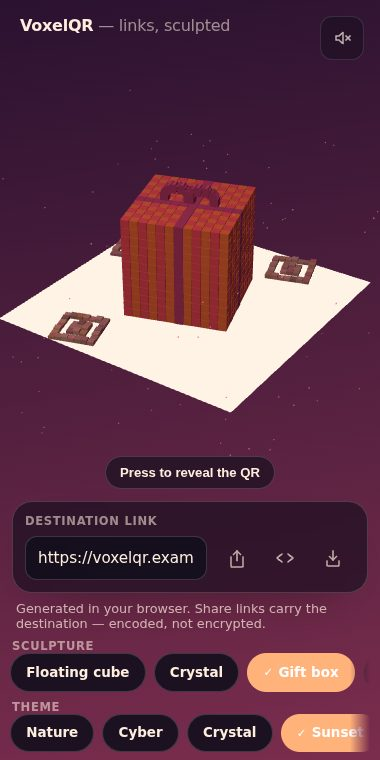
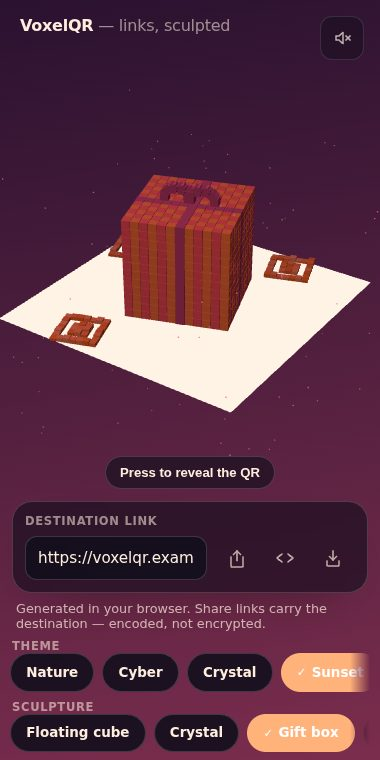
Fix washed-out finder squares, pair the pickers, and measure scan headroom
Three things, one of which turned into a real reliability finding.

Finder squares. They were mixed toward the background by a per-cube
amount, which desaturated them to pale grey and left them mottled rather
than carved. Each cube now takes the theme's own voxel colour and varies
only its lightness, so the three squares read as one material belonging
to the sculpture.

Footer. Theme sits left and sculpture right on one row at desktop
widths; they stack on a phone, where side-by-side leaves no room to read
a chip before it scrolls away.

Scanning headroom. "It decodes" says nothing about how much room a code
has before it stops working, so tests/e2e/degrade.ts shrinks a capture
and re-decodes it — standing in for scanning from further away. The
measurement changed the design: error correction was pinned at H per the
spec, but H protects a code that is obscured, and nothing obscures this
one. It was spending 30% more modules on redundancy the design does not
need.

  29 chars   33 modules (H)  decoded down to 10%   unchanged
  72 chars   49 -> 41 (Q)
  173 chars  69 -> 53 (M)    decoded ONLY at 100%  now 15%

chooseErrorCorrectionLevel takes the strongest level whose code still
fits a module budget, never below M. Short links keep H and lose
nothing; the long link gained roughly 6.7x more scanning distance.
tests/e2e/scan-margin.spec.ts locks it in — pin the level back to H and
it fails.

137 unit tests and 44 Playwright tests green. README screenshots
[…]

diff --git a/src/voxel/instanced-voxels.tsx b/src/voxel/instanced-voxels.tsx
@@ -4,7 +4,6 @@ import { useFrame } from '@react-three/fiber';
 import * as THREE from 'three';
 import type { RevealValues } from '../animation/create-reveal-timeline';
 import { LOCK_HEIGHT, TILE_HEIGHT } from './build-qr-layout';
-import { toSubtle } from '../themes/module-colors';
 import { hashString } from './rng';
 import type { VoxelLayout } from './types';
 
@@ -134,16 +133,29 @@ export function InstancedVoxels({
   const tileColors = useMemo(() => {
     const idle: Array<THREE.Color | null> = [];
     const scan: Array<THREE.Color | null> = [];
+    const hsl = { h: 0, s: 0, l: 0 };
     for (const instance of layout.instances) {
       if (instance.isQrModule && instance.module) {
         const [row, column] = instance.module;
         const mosaic = moduleColor(row, column);
-        // Finder squares rest as tone-on-tone decoration; data tiles rest as
-        // pure background — invisible until the reveal surfaces them.
+        // Finder squares rest as objects made of the sculpture's own material;
+        // data tiles rest as pure background, invisible until the reveal.
         if (finder(row, column)) {
-          // Each finder cube gets its own tone, like stacked stone.
+          /**
+           * One hue, lit slightly differently cube to cube.
+           *
+           * Mixing toward the background — the earlier approach — desaturated
+           * these into pale grey and, because the mix amount varied per cube,
+           * left them looking mottled rather than carved. Taking the theme's
+           * own voxel colour and moving only its lightness keeps the three
+           * squares unmistakably one material.
+           */
+          const base = paletteColors[0] ?? foregroundColor;
           const jitter = (hashString(`finder:${row}:${column}`) % 1000) / 1000;
-          idle.push(new THREE.Color(toSubtle(mosaic, qrBackground, 0.48 + jitter * 0.3)));
+          const stone = new THREE.Color().copy(base);
+          stone.getHSL(hsl);
+          stone.setHSL(hsl.h, hsl.s, Math.min(0.92, Math.max(0.05, hsl.l + (jitter - 0.5) * 0.14)));
+          idle.push(stone);
         } else {
           idle.push(new THREE.Color(qrBackground));
         }
@@ -154,7 +166,7 @@ export function InstancedVoxels({
       }
     }
     return { idle, scan };
-  }, [layout, moduleColor, finder, qrBackground]);
+  }, [layout, moduleColor, finder, qrBackground, paletteColors, foregroundColor]);
 
   // Seed matrices and colours synchronously so the first painted frame is the
   // finished plinth-and-sculpture rather than a pile of cubes at the origin.

diff --git a/src/qr/generate-matrix.ts b/src/qr/generate-matrix.ts
@@ -23,9 +23,55 @@ export interface QrMatrix {
 
 export const DEFAULT_QUIET_ZONE = 4;
 
+/**
+ * Error-correction levels, strongest first.
+ *
+ * `H` recovers 30% of a damaged code but needs the most modules; `M` recovers
+ * 15% and is the usual default for print.
+ */
+export const ECC_LADDER = ['H', 'Q', 'M'] as const;
+
+/**
+ * Module count above which the code is stepped down the ladder.
+ *
+ * Redundancy protects a code that is *obscured*. Nothing obscures this one:
+ * the sculpture is fully absorbed, particles have faded, and the scan plane is
+ * clean. What actually limits scanning here is how many screen pixels each
+ * module gets — and that is set by the module count.
+ *
+ * Measured with `tests/e2e/degrade.ts` (shrink a capture until it stops
+ * decoding): at 33 modules a capture still decodes at a tenth of its size,
+ * while a 69-module code at level H has no headroom at all. Holding the count
+ * near this threshold buys back that margin, and costs redundancy the design
+ * does not need.
+ */
+export const TARGET_MAX_MODULES = 45;
+
 export interface GenerateMatrixOptions {
   quietZone?: number;
+  /** Force a level. Omit to let the ladder pick the strongest that fits. */
   errorCorrectionLevel?: 'L' | 'M' | 'Q' | 'H';
+  /** Override the step-down threshold; mainly for tests. */
+  targetMaxModules?: number;
+}
+
+/**
+ * Strongest error correction whose code still fits the module budget.
+ *
+ * Falls back to the weakest level on the ladder when nothing fits, which is
+ * the best available answer for a very long URL.
+ */
+export function chooseErrorCorrectionLevel(
+  value: string,
+  targetMaxModules = TARGET_MAX_MODULES,
+): 'M' | 'Q' | 'H' {
+  let fallback: 'M' | 'Q' | 'H' = ECC_LADDER[ECC_LADDER.length - 1] as 'M';
+  for (const level of ECC_LADDER) {
+    const size = QRCode.create(value, { errorCorrectionLevel: level }).modules.size;
+    fallback = level;
+    if (size <= targetMaxModules) return level;
+  }
+  return fallback;
 }
 
 /**
@@ -36,7 +82,8 @@ export interface GenerateMatrixOptions {
  */
 export function generateMatrix(value: string, options: GenerateMatrixOptions = {}): QrMatrix {
   const quietZone = options.quietZone ?? DEFAULT_QUIET_ZONE;
-  const errorCorrectionLevel = options.errorCorrectionLevel ?? 'H';
+  const errorCorrectionLevel =
+    options.errorCorrectionLevel ?? chooseErrorCorrectionLevel(value, options.targetMaxModules);
 
   const created = QRCode.create(value, { errorCorrectionLevel });
   const size = created.modules.size;

diff --git a/tests/unit/qr-matrix.spec.ts b/tests/unit/qr-matrix.spec.ts
@@ -1,5 +1,8 @@
 import { describe, expect, it } from 'vitest';
 import {
+  ECC_LADDER,
+  TARGET_MAX_MODULES,
+  chooseErrorCorrectionLevel,
   countDarkModules,
   generateMatrix,
   isFinderModule,
@@ -15,6 +18,7 @@ describe('generateMatrix', () => {
     expect(matrix.modules).toHaveLength(matrix.size * matrix.size);
     expect(matrix.quietZone).toBe(4);
     expect(matrix.total).toBe(matrix.size + 8);
+    // A short link fits comfortably, so it keeps the strongest level.
     expect(matrix.errorCorrectionLevel).toBe('H');
   });
 
@@ -66,6 +70,48 @@ describe('generateMatrix', () => {
 
   it('throws for a value that cannot be encoded', () => {
     expect(() => generateMatrix('x'.repeat(20000))).toThrow();
+  });
+
+  describe('adaptive error correction', () => {
+    const medium = 'https://voxelqr.example/campaign/spring-2026?ref=poster&utm_source=print';
+    const long = `https://voxelqr.example/c/${'segment/'.repeat(18)}end`;
+
+    it('keeps the strongest level while the code stays small', () => {
+      expect(chooseErrorCorrectionLevel(URL)).toBe('H');
+      expect(generateMatrix(URL).size).toBeLessThanOrEqual(TARGET_MAX_MODULES);
+    });
+
+    it('steps down rather than let the module count run away', () => {
+      expect(chooseErrorCorrectionLevel(medium)).toBe('Q');
+      expect(generateMatrix(medium).size).toBeLessThan(
+        generateMatrix(medium, { errorCorrectionLevel: 'H' }).size,
+      );
+    });
+
+    it('takes the weakest rung when nothing fits, never below M', () => {
+      expect(chooseErrorCorrectionLevel(long)).toBe('M');
+      // Still a large code, but 23% fewer modules per side than level H, which
+      // is the difference between a scannable code and an unscannable one.
+      expect(generateMatrix(long).size).toBeLessThan(
+        generateMatrix(long, { errorCorrectionLevel: 'H' }).size,
+      );
+    });
+
+    it('never picks a level below the ladder floor', () => {
+      for (const value of [URL, medium, long, `https://e.example/${'a'.repeat(900)}`]) {
+        expect(ECC_LADDER).toContain(chooseErrorCorrectionLevel(value));
+      }
+    });
+
+    it('honours an explicit level', () => {
+      expect(generateMatrix(long, { errorCorrectionLevel: 'H' }).errorCorrectionLevel).toBe('H');
+    });
+
+    it('is deterministic', () => {
+      expect(generateMatrix(long).errorCorrectionLevel).toBe(
+        generateMatrix(long).errorCorrectionLevel,
+      );
+    });
   });
 });
 

diff --git a/tests/e2e/scan-margin.spec.ts b/tests/e2e/scan-margin.spec.ts
@@ -1,0 +1,49 @@
+import { expect, test } from '@playwright/test';
+import { decodeQrFromPng } from './decode';
+import { downscalePng } from './degrade';
+import { openExperience, revealAndSettle, screenshotScene } from './helpers';
+
+const SHORT = 'https://voxelqr.example/hello';
+const LONG = `https://voxelqr.example/c/${'segment/'.repeat(18)}end`;
+
+/**
+ * Smallest fraction of the captured frame that still decodes.
+ *
+ * Shrinking the capture stands in for scanning from further away or with a
+ * poorer sensor, so this is a number for how much room the code has before it
+ * stops working — not merely whether it works at full size.
+ */
+async function scanMargin(page: import('@playwright/test').Page, url: string): Promise<number> {
+  await openExperience(page, { url });
+  await revealAndSettle(page);
+  const full = await screenshotScene(page);
+  expect(decodeQrFromPng(full), 'the full-size capture must decode').toBe(url);
+
+  let smallest = 1;
+  for (const factor of [0.6, 0.5, 0.4, 0.3, 0.25, 0.2, 0.15, 0.1]) {
+    if (decodeQrFromPng(downscalePng(full, factor)) !== url) break;
+    smallest = factor;
+  }
+  return smallest;
+}
+
+test.describe('scanning headroom', () => {
+  test('a short link decodes far below capture resolution', async ({ page }) => {
+    const margin = await scanMargin(page, SHORT);
+    expect(margin, `short link decoded down to ${margin * 100}%`).toBeLessThanOrEqual(0.15);
+  });
+
+  /**
+   * The regression this guards.
+   *
+   * At a fixed error-correction level of H a 173-character URL needs 69
+   * modules and had *no* headroom at all — it decoded only at full capture
+   * size. Choosing the strongest level that still fits the module budget
+   * brings it to 53 modules and restores a real margin. If someone pins the
+   * level back to H, this fails.
+   */
+  test('a long link keeps real headroom, not just a full-size pass', async ({ page }) => {
+    const margin = await scanMargin(page, LONG);
+    expect(margin, `long link decoded down to ${margin * 100}%`).toBeLessThanOrEqual(0.3);
+  });
+});

diff --git a/tests/e2e/degrade.ts b/tests/e2e/degrade.ts
@@ -1,0 +1,48 @@
+import { PNG } from 'pngjs';
+
+/**
+ * Box-filter downscale.
+ *
+ * Standing further from a screen, or scanning with a cheaper sensor, is
+ * optically close to sampling the same image at fewer pixels. Shrinking a
+ * capture and re-decoding it therefore measures how much headroom the code has
+ * before module boundaries blur into each other — a number, rather than a
+ * feeling, for "does this scan well".
+ */
+export function downscalePng(buffer: Buffer, factor: number): Buffer {
+  const source = PNG.sync.read(buffer);
+  const width = Math.max(1, Math.round(source.width * factor));
+  const height = Math.max(1, Math.round(source.height * factor));
+  const out = new PNG({ width, height });
+
+  const sx = source.width / width;
+  const sy = source.height / height;
+
+  for (let y = 0; y < height; y += 1) {
+    const y0 = Math.floor(y * sy);
+    const y1 = Math.max(y0 + 1, Math.floor((y + 1) * sy));
+    for (let x = 0; x < width; x += 1) {
+      const x0 = Math.floor(x * sx);
+      const x1 = Math.max(x0 + 1, Math.floor((x + 1) * sx));
+      let r = 0;
+      let g = 0;
+      let b = 0;
+      let n = 0;
+      for (let yy = y0; yy < y1 && yy < source.height; yy += 1) {
+        for (let xx = x0; xx < x1 && xx < source.width; xx += 1) {
+          const o = (yy * source.width + xx) * 4;
+          r += source.data[o] as number;
+          g += source.data[o + 1] as number;
+          b += source.data[o + 2] as number;
+          n += 1;
+        }
+      }
+      const o = (y * width + x) * 4;
+      out.data[o] = Math.round(r / n);
+      out.data[o + 1] = Math.round(g / n);
+      out.data[o + 2] = Math.round(b / n);
+      out.data[o + 3] = 255;
+    }
+  }
+  return PNG.sync.write(out);
+}

diff --git a/src/styles/app.css b/src/styles/app.css
@@ -162,11 +162,17 @@ body {
   flex: 0 0 auto;
 }
 
-/* The footer: two quiet rows of choices, no container of their own. */
+/* The footer: the two pickers side by side, no container of their own. */
 .panel-footer {
-  width: min(100%, 44rem);
+  width: min(100%, 56rem);
   display: grid;
-  gap: var(--space-2);
+  grid-template-columns: 1fr 1fr;
+  gap: var(--space-2) var(--space-4);
+  align-items: start;
+}
+
+.panel-footer .brand-colors {
+  grid-column: 1 / -1;
 }
 
 .panel .hint {
@@ -188,6 +194,9 @@ body {
   }
   .panel-footer {
     width: 100%;
+    /* On a phone the two pickers stack; side by side there is no room to read
+       a chip before it scrolls out of view. */
+    grid-template-columns: 1fr;
   }
   .panel {
     padding-left: var(--space-3);

diff --git a/src/components/controls/ControlPanel.tsx b/src/components/controls/ControlPanel.tsx
@@ -157,16 +157,16 @@ export function ControlPanel(props: ControlPanelProps) {
 
       <div className="panel-footer">
         <ChipGroup
-          legend="Sculpture"
-          value={props.sculpture}
-          options={SCULPTURE_OPTIONS}
-          onChange={props.onSculptureChange}
-        />
-        <ChipGroup
           legend="Theme"
           value={props.theme}
           options={THEME_OPTIONS}
           onChange={props.onThemeChange}
+        />
+        <ChipGroup
+          legend="Sculpture"
+          value={props.sculpture}
+          options={SCULPTURE_OPTIONS}
+          onChange={props.onSculptureChange}
         />
 
         {props.theme === 'brand' ? (

diff --git a/README.md b/README.md
@@ -113,6 +113,32 @@ canvas in its scan-ready state and decodes it with ZXing across six viewports an
 pixel densities, all six themes, all six sculptures, short and long URLs, and
 reduced-motion mode. A code that will not decode fails CI.
 
+### Scanning headroom, measured
+
+"It decodes" is a weak test — it says nothing about how much room the code has
+before it stops working. `tests/e2e/degrade.ts` shrinks a capture and re-decodes
+it, which stands in for scanning from further away or with a poorer sensor, and
+reports the smallest fraction that still reads.
+
+That measurement changed the design. Error correction was fixed at level `H`,
+following the spec's advice — but `H` is protection against a code being
+_obscured_, and nothing obscures this one: the sculpture is fully absorbed and
+the scan plane is clean. What actually limits scanning is how many screen pixels
+each module gets, and `H` was spending 30% more modules to buy redundancy the
+design never needed:
+
+| Link      |  Level `H` |         Adaptive |  Headroom before | Headroom after |
+| --------- | ---------: | ---------------: | ---------------: | -------------: |
+| 29 chars  | 33 modules | 33 modules (`H`) |   decodes at 10% | decodes at 10% |
+| 72 chars  | 49 modules | 41 modules (`Q`) |                — |              — |
+| 173 chars | 69 modules | 53 modules (`M`) | **only at 100%** | decodes at 15% |
+
+`chooseErrorCorrectionLevel` now takes the strongest level whose code still fits
+a module budget, never dropping below `M` (15% recovery, the usual print
+default). Short links keep `H` and lose nothing; the long link gained roughly
+6.7x more scanning distance. `tests/e2e/scan-margin.spec.ts` locks that in — pin
+the level back to `H` and it fails.
+
 ---
 
 ## Sculptures and themes
